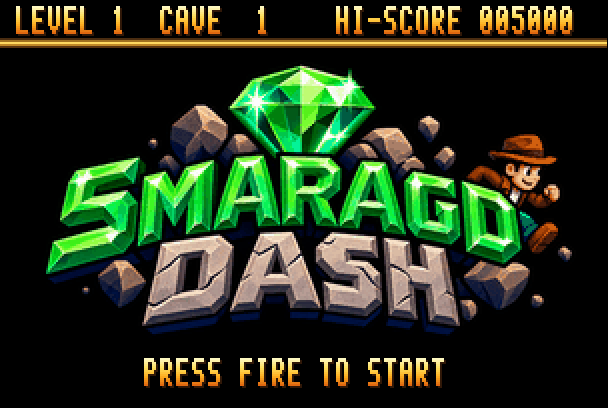
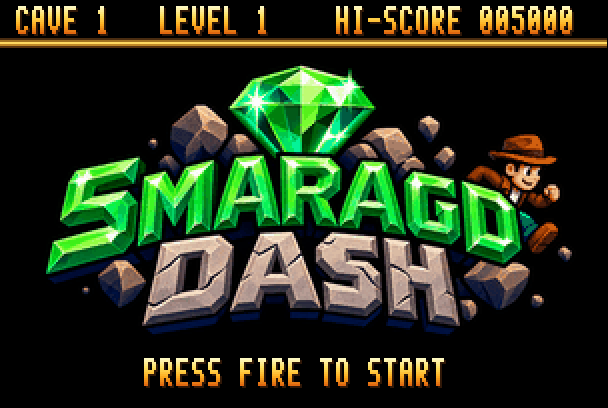
Smaragd Dash: BASIC instead of the monitor, own caves picked one by one
- Back to BASIC waits until Run/Stop and the C= key are let go: the
  KERNAL's reset opens the monitor while Run/Stop is held (C=: C64 mode),
  and the second press of Run/Stop on the title still held it.
- The title's status line names the cave first, then the level.
- Help opens the editor's help page, as H does.
- Right of cave 21 come the own caves one by one, OWN 1 to OWN 20: the
  game starts with the one picked (an empty slot: the next own cave).

diff --git a/smaragd-dash/src/main.c b/smaragd-dash/src/main.c
@@ -144,6 +144,7 @@ static uint8_t flash;               // frames left of the exit flash
 static uint8_t lives;
 static uint8_t cave_no, level;      // from 0
 static uint8_t start_cave, start_level;  // picked on the title; CAVE_COUNT: the own caves
+static uint8_t start_own;                // ... from this slot
 enum { PLAY_CAVES, PLAY_OWN, PLAY_TEST };  // the game's caves, the own ones, one in the editor
 static uint8_t play_mode;
 static bool show_cursor;            // the editor's, at cur_x, cur_y
@@ -1344,29 +1345,39 @@ static void title_line(const char *text) {
 // The status line on the title: what the game starts with, and the hi-score
 static void title_status(void) {
     status_begin();
-    status_print(2, "LEVEL");
-    put_num(8, start_level + 1, 1);
-    if (start_cave == CAVE_COUNT) {
-        status_print(11, "OWN CAVES");
+    if (start_cave == CAVE_COUNT) {  // "OWN 12", as in the cave
+        status_print(2, "OWN");
+        put_num(6, start_own + 1, start_own >= 9 ? 2 : 1);
     } else {
-        status_print(11, "CAVE");
-        put_num(start_cave >= 9 ? 16 : 17, start_cave + 1, start_cave >= 9 ? 2 : 1);
+        status_print(2, "CAVE");
+        put_num(7, start_cave + 1, start_cave >= 9 ? 2 : 1);
     }
+    status_print(11, "LEVEL");
+    put_num(17, start_level + 1, 1);
     status_print(22, "HI-SCORE");
     put_num(31, hs_table[0].score, 6);
     status_end();
 }
 
 // Up and down pick the level, left and right the cave to start with; right
-// of the last one come the own caves, with GDash's levels
+// of the last one come the own caves, one by one, with GDash's levels (an
+// empty slot starts with the next own cave)
 #define LAST_START ((CAVE_COUNT - 1) / START_STEP * START_STEP)
 
 static void title_pick(void) {
-    uint8_t l = start_level, c = start_cave;
-    if ((pressed & IN_RIGHT) && c < CAVE_COUNT)
-        c = c == LAST_START ? CAVE_COUNT : c + START_STEP;
-    if ((pressed & IN_LEFT) && c)
-        c = c == CAVE_COUNT ? LAST_START : c - START_STEP;
+    uint8_t l = start_level, c = start_cave, o = start_own;
+    if (pressed & IN_RIGHT) {
+        if (c < CAVE_COUNT)
+            c = c == LAST_START ? CAVE_COUNT : c + START_STEP;
+        else if (o < OWN_SLOTS - 1)
+            o++;
+    }
+    if (pressed & IN_LEFT) {
+        if (c == CAVE_COUNT && o)
+            o--;
+        else if (c)
+            c = c == CAVE_COUNT ? LAST_START : c - START_STEP;
+    }
     uint8_t top = (c == CAVE_COUNT ? OWN_LEVELS : LEVELS) - 1;
     if ((pressed & IN_UP) && l < top)
         l++;
@@ -1374,9 +1385,10 @@ static void title_pick(void) {
         l--;
     if (l > top)
         l = top;
-    if (l != start_level || c != start_cave) {
+    if (l != start_level || c != start_cave || o != start_own) {
         start_level = l;
         start_cave = c;
+        start_own = o;
         title_status();
         sound_crackle();
     }
@@ -1812,6 +1824,17 @@ __attribute__((noreturn)) static void to_basic(void) {
         POKE(0xD000 + vic_reg[i], vic_was[i]);
     POKE(0xD070, 0x00);
     POKE(0xD030, rom_saved ? d030_was : d030_was & ~0x04);  // else the ROM's colours
+    // The KERNAL's reset opens the monitor while Run/Stop is held (and goes
+    // to C64 mode with the C= key): both let go, and a few frames for the
+    // key to settle
+    POKE(0xDC02, 0xFF);
+    POKE(0xDC00, 0x7F);  // the matrix column of both
+    for (uint8_t f = 0; f < 3;) {
+        uint8_t now = PEEK(0xD7FA);
+        while (PEEK(0xD7FA) == now)
+            ;
+        f = (PEEK(0xDC01) & 0xA0) == 0xA0 ? f + 1 : 0;
+    }
     while (PEEK(0xD610))  // no keys for BASIC
         POKE(0xD610, 0);
     // The KERNAL at $E000 (C65 ROM bank 3), the stack as at a reset
@@ -2177,7 +2200,7 @@ static uint8_t play_cave(void) {
 
 // The editor changes an own cave in file.own - GDash's elements, played by
 // GDash's engine - and shows it from cave[], both alike; a try plays it
-// from file.own. Its keys (also on its help page, H):
+// from file.own. Its keys (also on its help page, H or Help):
 //   cursor keys, joystick   move the cursor
 //   fire, Space, Return     put the element chosen; held, it draws
 //   1-9, 0, I, X            choose the element; again: a firefly or a
@@ -2841,6 +2864,7 @@ static EDITOR void editor(void) {
             edit_shown = false;
             break;
         case 'H':
+        case KEY_HELP:
             edit_help();
             armed = false;
             break;
@@ -2895,7 +2919,7 @@ static void play_game(void) {
     score = 0;
     next_life = LIFE_POINTS;
     play_mode = start_cave == CAVE_COUNT ? PLAY_OWN : PLAY_CAVES;
-    cave_no = play_mode == PLAY_OWN ? 0 : start_cave;
+    cave_no = play_mode == PLAY_OWN ? start_own : start_cave;
     level = start_level;
     bool have_cave = true;
     while (lives) {

diff --git a/smaragd-dash/EDITOR.md b/smaragd-dash/EDITOR.md
@@ -76,7 +76,7 @@ the status line says SAVED and the `*` is gone.
 **7. Play it.** Run/Stop leaves the editor. The cave stays as you left it,
 saved or not: E brings you back to it until the game is left (Run/Stop
 twice on the title: BASIC). On the title screen move right
-past the last start cave until the status line says OWN CAVES, then press
+past the last start cave until the status line says OWN 1, then press
 fire (see [Playing your caves](#playing-your-caves)).
 
 ## The editor's screen
@@ -94,7 +94,7 @@ Below it is the cave, as it is at its start, with all its elements standing
 still. The view follows the cursor. For a few seconds the status line may
 show a message instead (see [Messages](#messages)).
 
-**H** shows the help page with all keys and the twelve elements with their
+**H** or **Help** shows the help page with all keys and the twelve elements with their
 keys. Any key (or fire) goes back.
 
 ![The help page](screenshots/editor-help.png)
@@ -254,9 +254,10 @@ disk and `import` into the new one (see
 ## Playing your caves
 
 On the title screen, left and right choose the cave to start with (1, 6,
-11, 16, 21). Right of cave 21 comes OWN CAVES; up and down choose the level
-to start with, 1 to 5. Fire starts them: all slots that are not empty, one
-after the other, with three lives; after the last one the first comes
+11, 16, 21). Right of cave 21 come the own caves, OWN 1 to 20: left
+and right choose the slot to start with, up and down the level, 1 to 5.
+Fire starts them: from the slot chosen on, all slots that are not empty,
+one after the other, with three lives; after the last one the first comes
 again, in the next level (after level 5: level 5 again), as in GDash. The
 status line shows slot and level, OWN 03/2. A cave saved in the editor is
 the same in every level; one from GDash plays its own levels. The own caves
@@ -366,5 +367,5 @@ More about this, and how exactly the caves follow GDash, is in the README,
 | R | the next direction of what walks |
 | C (twice) | a new cave |
 | D (twice) | empty the slot |
-| H | help page |
+| H or Help | help page |
 | Run/Stop | back to the title; the cave stays as it is for the next time |

diff --git a/smaragd-dash/README.md b/smaragd-dash/README.md
@@ -118,7 +118,8 @@ it is changed.
 
 ![The editor](screenshots/editor-changed.png)
 
-The own caves are played from the title (right of cave 21): one after the
+The own caves are played from the title (right of cave 21: own cave 1 to
+20, left and right pick the one to start with): one after the
 other, empty slots left out, with three lives as usual; after the last one
 the first comes again, in the next level - as GDash does, in its five levels
 (up and down pick the one to start with). A cave from GDash brings its
